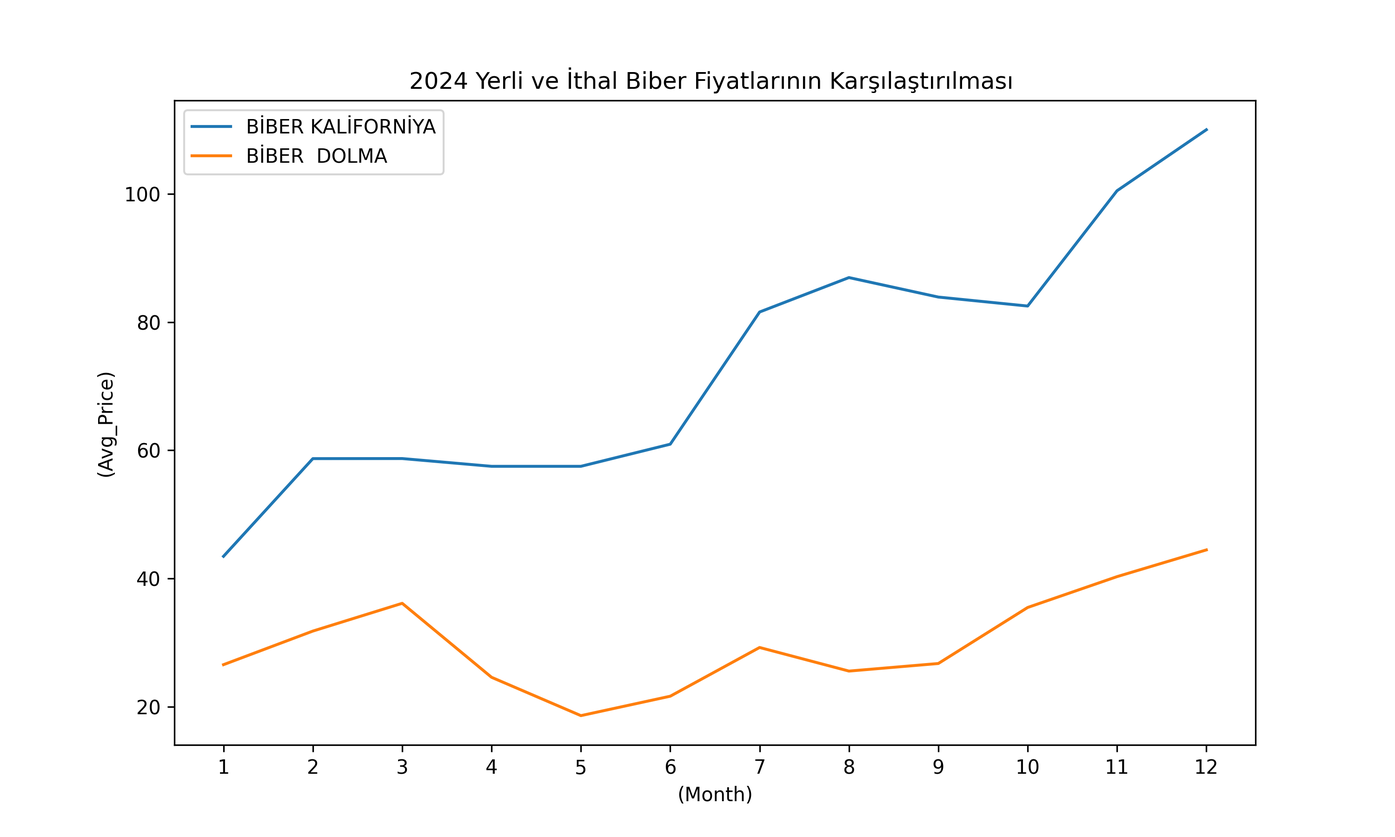
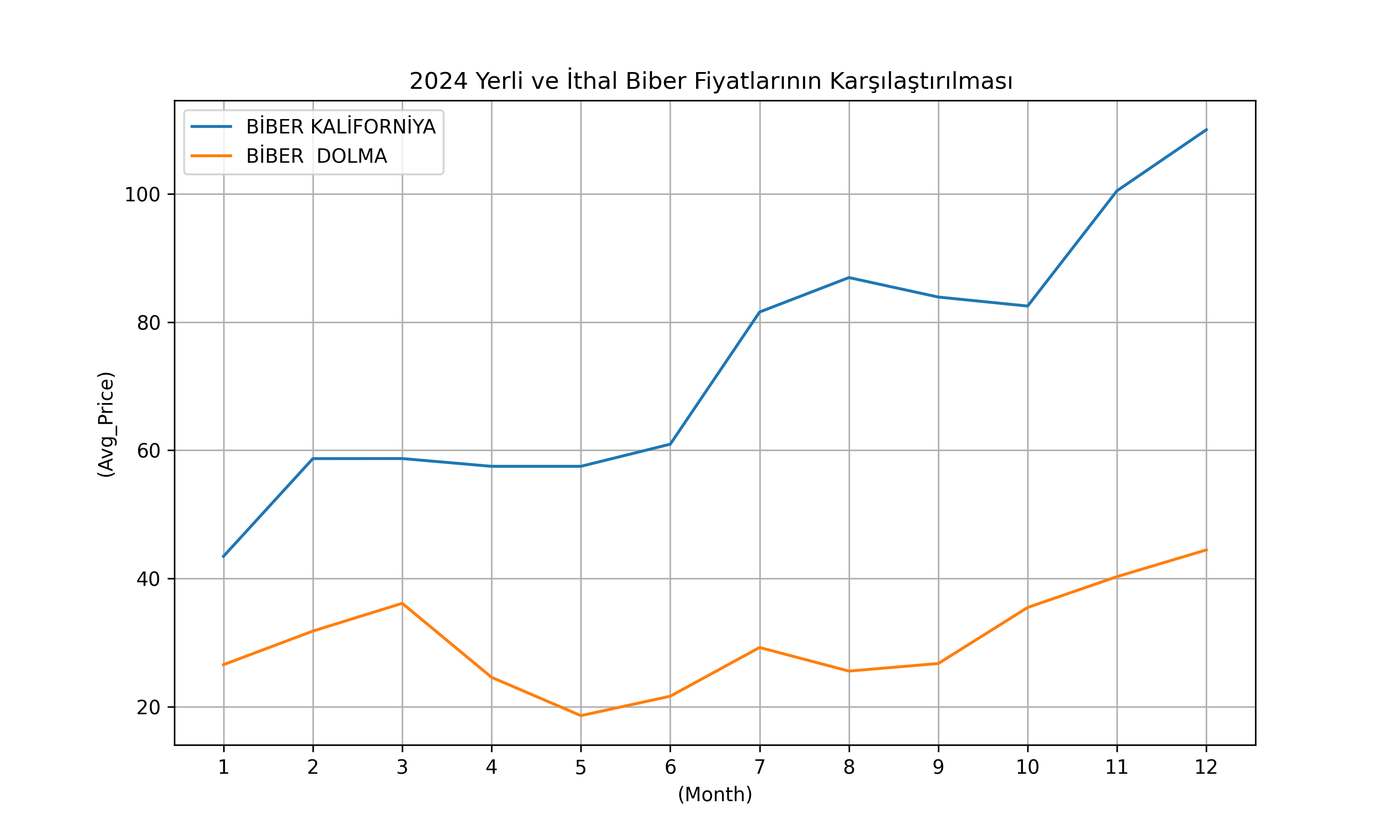
update

diff --git a/scripts/2024_yili_yerli_ve_ithal_kivi_fiyatlarinin_karsilastirilmasi_grafik.py b/scripts/2024_yili_yerli_ve_ithal_kivi_fiyatlarinin_karsilastirilmasi_grafik.py
@@ -29,7 +29,7 @@ for key, grp in data.groupby('type'):
     plt.plot(grp['ay'], grp['ortalama_fiyat'], marker='o', label=key)
 
 # Grafik ayarları
-plt.title('2024 Yerli Ve İthal Ortalama Kivi Fiyatları')
+plt.title('2024 Yerli Ve İthal Kivi Fiyatları')
 plt.xlabel('(Month)', fontsize=12)
 plt.ylabel('(Avg_Price)', fontsize=12)
 plt.xticks(range(1, 13))  

diff --git a/scripts/2024_yili_yerli_ve_ithal_sarimsak_fiyatlarinin_karsilastirilmasi_grafik.py b/scripts/2024_yili_yerli_ve_ithal_sarimsak_fiyatlarinin_karsilastirilmasi_grafik.py
@@ -39,7 +39,7 @@ plt.grid(True)
 plt.tight_layout()
 
 # Kaydetme yolunu belirleme
-output_path = "outputs/2024_yili_yerli_ve_ithal_sarimsak_fiyatlarinin_karsilastirilmasi.png"
+output_path = "outputs/2024_yili_yerli_ithal_sarimsak_fiyatlarinin_karsilastirilmasi.png"
 plt.savefig(output_path, format='png', dpi=300)  # Grafik kaydediliyor
 
 # Grafiği göster

diff --git a/scripts/2024_yili_yerli_ve_ithal_elma_fiyatlarinin_karsilastirilmasi_grafik.py b/scripts/2024_yili_yerli_ve_ithal_elma_fiyatlarinin_karsilastirilmasi_grafik.py
@@ -39,7 +39,7 @@ plt.xlabel('(Month)')
 plt.ylabel('(Avg_Price)')
 plt.xticks(range(1, 13))  
 plt.legend()
-
+plt.grid(True)
 # Kaydetme yolunu belirleme
 output_path = "outputs/2024_yerli_ithal_elma_fiyat_karsilastirma.png"
 plt.savefig(output_path, format='png', dpi=300)  

diff --git a/scripts/2024_yili_yerli_ve_ithal_biber_fiyatlarinin_karsilastirilmasi_grafik.py b/scripts/2024_yili_yerli_ve_ithal_biber_fiyatlarinin_karsilastirilmasi_grafik.py
@@ -39,7 +39,7 @@ plt.xlabel('(Month)')
 plt.ylabel('(Avg_Price)')
 plt.xticks(range(1, 13)) 
 plt.legend()
-
+plt.grid(True)
 
 # Kaydetme yolunu belirleme
 output_path = "outputs/2024_yerli_ithal_biber_fiyat_karsilastirma.png"

diff --git a/readme2.md b/readme2.md
@@ -515,38 +515,46 @@ Fiyat dalgalanmalarının düşük olmasının başlıca sebepleri arasında bu 
 
 
 
-
-
-
-
-
-
-
-
-
-
--------------------------------------------------------------------------------------------------------------------------------------------
+------------------------------------------------------------------------------------------------------------------
 
 ![2024_yili_en_yuksek_fiyatli_urun_ve_fiyat_degisimi.png](outputs/2024_yili_en_yuksek_fiyatli_urun_ve_fiyat_degisimi.png)
+2024 yılı içerisinde en yüksek fiyata sahip olan Can eriği ürününün fiyat değişimini gösteren grafiği incelediğimizde, yılın ilk aylarında özellikle Nisan ayı başında fiyatların en yüksek seviyede olduğunu görmekteyiz. Bu dönemde maksimum fiyat 600 TL seviyelerinde seyrederken, minimum fiyat 250 TL civarında gerçekleşmiştir. Nisan ayının ortalarına doğru fiyatlarda sert bir düşüş yaşanmış, maksimum fiyat önce 300 TL seviyelerine, ardından kademeli olarak 250 TL'ye kadar gerilemiştir. Mayıs ayına gelindiğinde düşüş trendi devam etmiş, maksimum fiyat 100 TL'nin altına inerken, minimum fiyat da 50 TL seviyelerine kadar düşmüştür.Haziran ve Temmuz aylarında fiyatlar daha stabil bir seyir izlemiş, maksimum fiyat 50-60 TL bandında, minimum fiyat ise 30-40 TL aralığında hareket etmiştir. Bu dönemde fiyatlar sezonun en düşük seviyelerine ulaşmış ve istikrar kazanmıştır. Ağustos ayına doğru fiyatlarda hafif bir yükseliş trendi başlamış, maksimum fiyat 150 TL'ye kadar çıkmış, ancak ardından tekrar 100 TL seviyelerine gerilemiştir. Minimum fiyat da benzer bir hareketle 60 TL civarına yükselmiştir. Bu hareket, minimum ve maksimum fiyat arasındaki farkın azalmasıyla birlikte fiyat dalgalanmalarının azaldığını göstermektedir.Bu fiyat hareketleri, can eriğinin mevsimsel özelliklerini net bir şekilde yansıtmakta olup, sezon başında oldukça yüksek olan fiyatların, ürün bollaştıkça önemli ölçüde gerilediğini ve sezon ortasında en düşük seviyeye ulaştıktan sonra sezon sonunda nispeten dengelendiğini göstermektedir.  Özellikle Nisan başında görülen 600 TL seviyesindeki fiyatların, Nisan ortasında 300 TL'ye ve Mayıs'ta 100 TL'nin altına düşmesi, sezon başındaki sert dalgalanmayı ortaya koymaktadır. Haziran ve Temmuz aylarında fiyatlar düşük seviyelerde sabit kalırken, Ağustos ayında görülen kısmi yükseliş ise fiyatlarda yeniden bir toparlanma sinyali vermiştir.
 
-
- 2024 yılı içerisinde en yüksek fiyata sahip olan ürünün Can erğinin fiyat değişimini görmekteyiz.
-Yılın başında, özellikle Mart ve Nisan aylarında ERİK_CAN’ın fiyatlarının oldukça yüksek olduğu görülmektedir. Bu dönemde maksimum fiyat yaklaşık 600 TL seviyelerinde iken, minimum fiyat da 250 TL civarında seyretmektedir. Bu olağanüstü yüksek fiyatlar, erik meyvesinin sezon dışı olması ve erken hasat edilen ürünlerin piyasada az bulunması nedeniyle ortaya çıkmış olabilir.Nisan ayının sonlarına doğru fiyatlarda belirgin bir düşüş yaşanmaktadır. Öncelikle maksimum fiyat 600 TL’den 500 TL seviyelerine inmiş, ardından kademeli olarak 300 TL seviyelerine kadar gerilemiştir. Aynı şekilde minimum fiyat da benzer bir seyir izleyerek önce 200 TL’ye, ardından 100 TL seviyelerine kadar düşmüştür. Mayıs ayının ortalarına doğru fiyatların tekrar küçük dalgalanmalar yaşadığı görülmektedir, ancak genel eğilim azalmaya devam etmektedir.Mayıs ayının sonlarından itibaren fiyatların en düşük seviyelerine ulaştığı ve stabil bir hale geldiği dikkat çekmektedir. Bu dönemde maksimum fiyat 50 TL civarına kadar düşerken, minimum fiyat ise 20-30 TL seviyelerine kadar gerilemiştir. Bu noktada ürünün piyasada daha bol bulunduğu ve talebin dengelenmesiyle fiyatların oturduğu söylenebilir.Haziran ve Temmuz aylarında fiyatlar yatay bir seyir izlerken, Temmuz ayının sonlarına doğru tekrar bir artış eğilimi başlamıştır. Maksimum fiyat 50 TL seviyesinden kademeli olarak 100 TL civarına yükselmiştir. Minimum fiyat da benzer bir şekilde hareket ederek 30 TL’den 60 TL seviyelerine çıkmıştır. Bu fiyat artışı, muhtemelen mevsimin sonuna doğru ürün arzının azalması ve talebin tekrar artmasıyla ilişkilidir.Ağustos ayına gelindiğinde fiyatlarda bir miktar dalgalanma gözlenmiş, ancak genel olarak maksimum fiyatın 100 TL seviyelerinde sabit kaldığı görülmektedir. Minimum fiyat da 50 TL civarında sabitlenmiş ve yılın geri kalanında büyük bir değişim göstermemiştir.
-
-Genel olarak değerlendirdiğimizde, ERİK_CAN fiyatlarının yıl içinde oldukça dramatik değişimler yaşadığı söylenebilir. Yılın başında aşırı yüksek seviyelerde olan fiyatlar, Nisan ve Mayıs aylarında hızla düşüşe geçmiş, yaz aylarında ise dengelenmiştir. Bu durum, meyvenin sezonluk bir ürün olmasından kaynaklanmaktadır. İlkbahar aylarında erken çıkan ürünlerin fiyatları oldukça yüksek olurken, yaz mevsimiyle birlikte arzın artması fiyatları aşağı çekmiştir. Ancak sezon sonuna yaklaşıldığında tekrar fiyat artışları gözlenmiştir. Fiyatların yılın başından itibaren ciddi bir düşüş gösterdiği için negatif trend baskın durumdadır.Ancak yılın ikinci yarısında hafif bir pozitif hareketlenme vardır.Zaman serisi analizi açısından bakıldığında, fiyatların mevsimsel bir trend izlediği görülmektedir.Yılın ilk aylarında yüksek fiyat dalgalanmaları yaşanırken, yılın ortalarına doğru fiyatlar stabilize olmuş ve sonbahara doğru tekrar yükseliş eğilimi göstermiştir.
+Genel olarak değerlendirdiğimizde, ERİK_CAN fiyatlarının yıl içinde oldukça dramatik değişimler yaşadığı söylenebilir. Yılın başında aşırı yüksek seviyelerde olan fiyatlar, Nisan ve Mayıs aylarında hızla düşüşe geçmiş, yaz aylarında ise dengelenmiştir. Bu durum, meyvenin sezonluk bir ürün olmasından kaynaklanmaktadır. İlkbahar aylarında erken çıkan ürünlerin fiyatları oldukça yüksek olurken, yaz mevsimiyle birlikte arzın artması fiyatları aşağı çekmiştir.Fiyatların yılın başından itibaren ciddi bir düşüş gösterdiği için negatif trend baskın durumdadır.Ancak yılın ikinci yarısında hafif bir pozitif hareketlenme vardır.Zaman serisi analizi açısından bakıldığında, fiyatların mevsimsel bir trend izlediği görülmektedir.Yılın ilk aylarında yüksek fiyat dalgalanmaları yaşanırken, yılın ortalarına doğru fiyatlar stabil hale gelmiş ve sonbahara doğru tekrar yükseliş eğilimi göstermiştir.
 
 -----------------------------------------------------------------------
 ![2024_ilkbahar_en_yuksek_fiyat_degisimi_top5.png](outputs/2024_ilkbahar_en_yuksek_fiyat_degisimi_top5.png)
 
- 2024 yılı ilkbahar mevsiminde fiyat değişimi en yüksek olan can eriği,badem-çağla,kiraz,malta ve nektarin ürünleri karşımıza çıkıyor. İlk sırada can eriği yer alıyor ve bu ürünün fiyat değişimi 390 olarak kaydedilmiştir. Minimum fiyatı 35 TL ve Maksimum fiyatı 425 TL ye kadar çıkmaktadır. İkinci sırada yer alan Badem-Çağla, 322.5 fiyat değişimi ile dikkat çekmektedir; maksimum fiyatı 375 TL, minimum fiyatı ise 52.5 TL'dir.Üçüncü sıradaki Kiraz ürününün fiyat değişimi 195 TL olarak görülmüştür. Maksimum fiyatı 270 TL, minimum fiyatı ise 75 TL’dir. Dördüncü sırada yer alan "Malta" ise 92.5 TL fiyat değişimi ile grafiğe girmektedir; maksimum fiyatı 122.5 TL, minimum fiyatı ise 30 TL’dir. Malta ürünü, diğerlerine kıyasla daha düşük bir fiyat değişim gösterse de, yine de önemli bir fiyat dalgalanması yaşandığı söylenebilir. Son olarak, "Nektarin Kırmızı", 91 TL ile aralarında en düşük fiyat değişimine sahip üründür; maksimum fiyatı 112.5, minimum fiyatı ise 21.5’tir. 
+ 2024 yılı ilkbahar mevsimindeki en yüksek fiyat değişimine sahip 5 ürünün grafiğini incelediğimizde can eriği Fiyatı 35 TL ile 425 TL arasında değişerek tam 390 TL'lik bir fiyat artışı göstermiş. İkinci sırada yer alan Badem-Çağla'nın fiyatı 52.5 TL'den 375 TL'ye yükselerek 322.5 TL'lik bir artış kaydetmiş.Üçüncü sırada bulunan Kiraz'ın fiyatı 75 TL'den 270 TL'ye çıkarak 195 TL'lik artış göstermiş. Malta'nın fiyatı 30 TL'den 122.5 TL'ye yükselerek 92.5 TL'lik, Nektarin Kırmızı'nın fiyatı ise 21.5 TL'den 112.5 TL'ye çıkarak 91 TL'lik bir artış göstermiş.Dİkkat çekici kısımlar ise can eriği ve badem-çağla'nın fiyat değişimleri diğer ürünlere göre çok daha yüksek,son üç ürünün (Kiraz, Malta, Nektarin Kırmızı) fiyat değişimleri birbirine daha yakın seyrediyor.En düşük başlangıç fiyatı Nektarin Kırmızı'da,en yüksek zirve fiyatı ve en yüksek fiyat değişimi can eriğinde bulunuyor.Can eriğinin fiyat artışı en düşük artışa sahip olan kırmızı nektarinin yaklaşık 4.3 katı olarak görülüyor ve ilk iki ürünün (Erik Can ve Badem-Çağla) fiyat artışları, diğer üç ürünün toplam artışından daha fazla olduğu,tüm ürünlerin minimum ve maksimum fiyatları arasında en az 3 kat fark bulunduğu dikkat çekiyor.
+ ----------------------------------------------------------------------------------------------------------------
 
-İstatistiksel olarak, fiyat değişimlerinin dağılımına bakıldığında, en yüksek volatiliteyi gösteren ürün can eriğidir. 
-
-
-
-Genel olarak, grafik, tarım ürünlerinin piyasa dinamiklerine olan duyarlılığını ve fiyat değişimlerinin mevsimsel etkilerle şekillendiğini ortaya koymaktadır. Ürünlerin piyasa koşullarına ve tüketici taleplerine göre dalgalanan fiyatları, üreticiler ve tüketiciler için önemli stratejik kararlar almayı gerektirebilir. Yüksek fiyat değişimlerine sahip ürünler, yatırımcılar ve üreticiler için daha fazla risk taşıyor olabilir; bu nedenle risk yönetimi stratejileri, özellikle "Erik Can" ve "Badem-Çığla" gibi ürünlerde önemli bir rol oynayabilir. Bu çıkarımlar, tarım piyasalarının karmaşıklığını ve dinamiklerini anlamak için kritik bir temel sunmaktadır.
+![2024_kis_en_yuksek_fiyat_degisimi_top5.png](outputs/2024_kis_en_yuksek_fiyat_degisimi_top5.png)
 
 
+2024 yılı kış mevsimindeki en yüksek fiyat değişimine sahip 5 ürünün grafiğini incelediğimizde çileğin fiyatı 60 TL ile 325 TL arasında değişerek tam 265 TL'lik bir fiyat artışı göstermiş. İkinci sırada yer alan Sarımsak Kuru'nun fiyatı 47.5 TL'den 135 TL'ye yükselerek 87.5 TL'lik bir artış kaydetmiş. Üçüncü sırada bulunan Mantar'ın fiyatı 27.5 TL'den 100 TL'ye çıkarak 72.5 TL'lik artış göstermiş. Biber Kaliforniya'nın fiyatı 40 TL'den 110 TL'ye yükselerek 70 TL'lik, Zencefil'in fiyatı ise 120 TL'den 180 TL'ye çıkarak 60 TL'lik bir artış göstermiş.
+Dikkat çekici kısımlar ise çileğin fiyat değişimi diğer ürünlere göre çok daha yüksek, son dört ürünün (Sarımsak Kuru, Mantar, Biber Kaliforniya, Zencefil) fiyat değişimleri birbirine daha yakın seyrediyor.Mantar en düşük başlangıç fiyatına sahip (27.5 TL) ve fiyatı yaklaşık 3.6 kat artmış. En düşük başlangıç fiyatı Mantar'da (27.5 TL), en yüksek başlangıç fiyatı ise Zencefil'de (120 TL) bulunuyor.Zencefil en yüksek başlangıç fiyatına sahip olmasına rağmen (120 TL) en düşük artış oranını göstermiş, En yüksek zirve fiyatı ve en yüksek fiyat değişimi çilekte görülüyor.Çileğin tek başına gösterdiği fiyat artışı, diğer dört ürünün toplam artışına (290 TL) neredeyse denk geliyor. Ayrıca çilekte minimum ve maksimum fiyat arasında yaklaşık 5.4 kat fark bulunuyor. Çileğin kış mevsiminde bu kadar yüksek fiyat artışı göstermesi, mevsim dışı bir ürün olmasıyla ilişkilendirilebilir ayrıca zencefil gibi ithal bir ürünün fiyat değişiminin daha stabil olması, döviz kurlarının bu dönemde görece stabil seyretmiş olabileceğini düşündürüyor.
+----------------------------------------------------------------------------------------------------------------
+![2024_sonbahar_en_yuksek_fiyat_degisimi_top5.png](outputs/2024_sonbahar_en_yuksek_fiyat_degisimi_top5.png)
+
+
+2024 yılı sonbahar mevsimindeki en yüksek fiyat değişimine sahip 5 ürünün grafiğini incelediğimizde çileğin fiyatı 75 TL ile 275 TL arasında değişerek tam 200 TL'lik bir fiyat artışı göstermiş. İkinci sırada yer alan Zencefil'in fiyatı 115 TL'den 165 TL'ye yükselerek 50 TL'lik bir artış kaydetmiş. Üçüncü sırada bulunan Domates (Diğer)'in fiyatı 17.5 TL'den 57.5 TL'ye çıkarak 40 TL'lik artış göstermiş. Sarımsak Kuru'nun fiyatı 90 TL'den 130 TL'ye yükselerek 40 TL'lik, Biber Kırmızı'nın fiyatı ise 25 TL'den 65 TL'ye çıkarak 40 TL'lik bir artış göstermiş.
+Dikkat çekici kısımlar ise çileğin fiyat değişimi diğer ürünlere göre çok daha yüksek, son üç ürünün (Domates Diğer, Sarımsak Kuru, Biber Kırmızı) fiyat değişimleri aynı (40 TL) seyrediyor. En düşük başlangıç fiyatı Domates Diğer'de (17.5 TL), en yüksek başlangıç fiyatı ise Zencefil'de (115 TL) bulunuyor. En yüksek zirve fiyatı ve en yüksek fiyat değişimi çilekte görülüyor. Çileğin fiyat artışı (200 TL), diğer dört ürünün toplam artışından (170 TL) daha fazla. Ayrıca çilekte minimum ve maksimum fiyat arasında yaklaşık 3.7 kat fark bulunması dikkat çekici
+
+Ortalama fiyat değişimi 74 TL olarak hesaplanıyor.Son üç ürünün aynı fiyat artışını göstermesi (40 TL) pazar dinamiklerinin benzer olduğunu düşündürüyor.Çileğin fiyat artışı (200 TL),  en az artış gösteren ürünlerin fiyat artışının (40 TL) tam 5 katına eşittir.Zencefil yine yüksek başlangıç fiyatına sahip olmasına rağmen görece düşük bir artış göstermiş ve Zencefil gibi ithal bir ürünün fiyat değişiminin diğer ürünlere göre daha kontrollü olması, döviz kurlarındaki değişimin sınırlı etkisini gösteriyor.Çileğin sonbaharda da yüksek fiyat artışı göstermesi, mevsim geçiş dönemindeki arz-talep dengesizliğini yansıtırken,Domates ve Biber gibi sera ürünlerinin benzer fiyat artışları göstermesi, üretim maliyetlerinin benzer şekilde etkilendiğini gösteriyor
+------------------------------------------------------------------------------------------------------------------
+
+![2024_yaz_en_yuksek_fiyat_degisimi_top5.png](outputs/2024_yaz_en_yuksek_fiyat_degisimi_top5.png)
+
+2024 yılı yaz mevsimindeki en yüksek fiyat değişimine sahip 5 ürünün grafiğini incelediğimizde Fasulye Ayşe'nin fiyatı 26.5 TL ile 100 TL arasında değişerek tam 73.5 TL'lik bir fiyat artış göstermiş. İkinci sırada yer alan Fasulye Çalı'nın fiyatı 24.5 TL'den 97.5 TL'ye yükselerek 73 TL'lik bir artış kaydetmiş. Üçüncü sırada bulunan Bamya'nın fiyatı 77.5 TL'den 150 TL'ye çıkarak 72.5 TL'lik artış göstermiş. Erik Can'ın fiyatı 35 TL'den 105 TL'ye yükselerek 70 TL'lik, Kiraz'ın fiyatı ise 52.5 TL'den 117.5 TL'ye çıkarak 65 TL'lik bir artış göstermiş.Dikkat çekici kısımlar ise tüm ürünlerin fiyat değişimleri birbirine oldukça yakın seyrediyor,En düşük başlangıç fiyatı Fasulye Çalı'da ve en yüksek zirve fiyatı Bamya'da görülüyor.İlk üç ürünün (Fasulye Ayşe, Fasulye Çalı ve Bamya) fiyat artışları neredeyse aynı (73.5, 73 ve 72.5 TL)Fasulye türlerinin başlangıç fiyatları düşük olduğu için yüzdesel artışları (%277 ve %298) en yüksek olduğu görülüyor ve fasulye türlerinin benzer fiyat artışları göstermesi, üretim ve hasat koşullarının benzer olduğunu gösteriyor. Bamya'nın yüksek başlangıç fiyatına rağmen önemli bir artış göstermesi, yaz mevsiminde bile arz-talep dengesizliğini yansıtıyor.Can eriği ve Kiraz gibi meyvelerin fiyat artışlarının görece daha düşük olması, yaz mevsiminin bu ürünler için ana hasat dönemi olmasıyla açıklanabilir.Can eriği ilkbahar mevsiminde en yüksek fiyat artışına sahipken, yaz mevsiminde daha makul bir artış gösteriyor.Tüm ürünlerin fiyat değişimlerinin birbirine yakın olması, yaz mevsiminde daha dengeli bir pazar yapısı olduğunu gösteriyor.Önceki mevsimlerde görülen aşırı fiyat farklılıkları yaz mevsiminde görülmüyor
+-----------------------------------------------------------------------------------------------------------------
+![2024_sezonluk_meyve_fiyatlari.png](outputs/2024_sezonluk_meyve_fiyatlari.png)
+
+
+
+
+
+--------------------------------------------------------------------------------------------------------------
+![2024_sezonluk_sebze_fiyatlari.png](outputs/2024_sezonluk_sebze_fiyatlari.png)
 
 
 
@@ -554,8 +562,46 @@ Genel olarak, grafik, tarım ürünlerinin piyasa dinamiklerine olan duyarlılı
 
 
 
+----------------------------------------------------------------------------------------------------------------
+![2024_meyve_kategorisi_en_yuksek_fiyat_can_erigi_degisimi.png](outputs/2024_meyve_kategorisi_en_yuksek_fiyat_can_erigi_degisimi.png)
+
+2024 yılı meyve kategorisindeki en yüksek fiyata sahip Can Eriği'nin fiyat değişimlerini gösteren grafiği incelediğimizde, özellikle Mart-Nisan aylarında fiyatların zirvede olduğunu görmekteyiz. Bu dönemde maksimum fiyat 600 TL, minimum fiyat 250 TL ve ortalama fiyat 425 TL seviyelerinde seyretmiştir. Mayıs ayına kadar fiyatlarda keskin bir düşüş yaşanmış, maksimum fiyat 100 TL'ye, minimum fiyat 50 TL'ye ve ortalama fiyat 75 TL'ye kadar gerilemiştir ve haziran ayındada az da olsa düşüş devam etmiştir. Yılın ilk aylarında oldukça yüksek seyreden fiyatlar, Mayıs ayından sonra dengelenmeye başlamış ve Haziran-Ağustos döneminde daha stabil bir seyir izlemiştir. Maksimum ve minimum fiyat arasındaki makas da zamanla daralmıştır. Bu fiyat hareketlerinin temel nedenleri arasında sezon başında arzın kısıtlı olması, mevsim dışı üretimin maliyetli olması, Mayıs ayından sonra ürünün bollaşmasıyla fiyatların düşmesi ve yaz aylarında arz-talep dengesinin oturması sayılabilir. Tüm bu veriler, Can Eriği'nin özellikle sezon başında çok yüksek fiyatlarla satıldığını, ancak mevsimi geldiğinde fiyatların makul seviyelere indiğini göstermektedir. Fiyat hareketlerinin tamamen mevsimsel faktörlerle ilişkili olduğu açıkça görülmektedir.
+
+-----------------------------------------------------------------------------------------------------------------
+
+![2024_yili_sebze_kategorisindeki_en_yuksek_fiyat_mantar_istiridye_fiyat_degisimi.png](outputs/2024_yili_sebze_kategorisindeki_en_yuksek_fiyat_mantar_istiridye_fiyat_degisimi.png)
+
+2024 yılı sebze kategorisinde en yüksek fiyata sahip Mantar (İstiridye) ürününün fiyat değişimlerini incelediğimizde, yılın ilk çeyreğinde Ocak ayında minimum fiyatın 15 TL, maksimum fiyatın 115 TL civarında başladığını ve Mart ayına kadar kademeli bir artış göstererek maksimum fiyatın 145 TL'ye ulaştığını, ortalama fiyatın ise 85-95 TL bandında seyrettiğini görmekteyiz. İlkbahar döneminde, özellikle Nisan ayında fiyatlar en yüksek seviyelerinden birini görmüş, Mayıs ayında hafif bir düşüş trendi başlamış ve minimum fiyat 55 TL civarında stabilize olmuştur. Yaz dönemine gelindiğinde, Haziran ayında fiyatlar yılın en düşük seviyelerinden birini göstermiş, ancak Temmuz ve Ağustos aylarında tekrar yükseliş trendine girerek maksimum fiyat 135-140 TL bandında hareket etmiştir. Sonbahar-Kış döneminde ise Eylül ayından itibaren belirgin bir yükseliş trendi başlamış, Aralık ayında maksimum fiyat 205 TL ile yılın en yüksek seviyesine ulaşırken, minimum fiyat 60 TL civarında sabit kalmış ve ortalama fiyat 130 TL'ye kadar yükselmiştir. Genel olarak değerlendirildiğinde, yıl boyunca minimum fiyatın 15-60 TL arasında, maksimum fiyatın ise 115-205 TL arasında dalgalandığı, en yüksek fiyat artışının yılın son çeyreğinde gerçekleştiği ve fiyatların genel olarak yükselen bir trend izlediği görülmektedir. Bu fiyat hareketlerinde mevsimsel etkilerin önemli rol oynadığı açıkça gözlemlenmektedir.
+-----------------------------------------------------------------------------------------------------------------
+
+![2024_yerli_ithal_biber_fiyat_karsilastirma.png](outputs/2024_yerli_ithal_biber_fiyat_karsilastirma.png)
+2024 yılı yerli ve ithal biber fiyatlarını gösteren grafiği incelediğimizde, Kaliforniya biberi (ithal) ile dolma biber (yerli) arasında önemli fiyat farklılıkları göze çarpıyor. Kaliforniya biberi yıl boyunca 43-110 TL aralığında seyrederken, dolma biber çok daha uygun bir fiyat aralığında, 18-45 TL bandında değişim gösteriyor. Mevsimsel değişimlere baktığımızda, ilkbahar aylarında (3-4-5. aylar) dolma biber fiyatları 35 TL'den 18 TL'ye düşerken, Kaliforniya biberi 60 TL civarında sabit kalıyor. Yaz döneminde (6-7-8. aylar) ise durum değişiyor; Kaliforniya biberi keskin bir yükselişle 60 TL'den 85 TL'ye çıkarken, dolma biber fiyatları da hafif bir artışla 20 TL'den 30 TL'ye yükseliyor,daha sonra da fiyatı 25 TL'ye geriliyor. Sonbahar aylarına (9-10-11. aylar) gelindiğinde, Kaliforniya biberinde önce bir düşüş, ardından tekrar yükseliş gözlenirken, dolma biber fiyatları kademeli olarak artış gösteriyor. Kış aylarında ise her iki ürün de en yüksek fiyatlarına ulaşıyor; Kaliforniya biberi 110 TL civarına çıkarken, dolma biber 45 TL seviyelerine yükseliyor. İki ürün arasındaki fiyat farkı özellikle yılın son aylarında en yüksek seviyeye ulaşıyor. Yerli dolma biberin fiyatları mevsimsellikten daha fazla etkileniyor ve tüketiciler için en uygun alım dönemi ilkbahar ayları olarak öne çıkıyor. Her iki ürün için de kış ayları en yüksek fiyatların görüldüğü dönem olarak dikkat çekiyor. Bu veriler ışığında, özellikle ekonomik alışveriş yapmak isteyen tüketiciler için yerli dolma biberin ilkbahar ve yaz başlangıcında daha uygun bir seçenek olduğunu söyleyebiliriz.
+------------------------------------------------------------------------------------------------------------
+
+![2024_yerli_ithal_elma_fiyat_karsilastirma.png](outputs/2024_yerli_ithal_elma_fiyat_karsilastirma.png)
+
+2024 yılı yerli ve ithal elma fiyatlarını gösteren grafiği incelediğimizde, Amasya elması (yerli) ve Starking elması (ithal) arasındaki fiyat değişimlerini net bir şekilde görebiliyoruz. Yılın başında her iki elma çeşidi de birbirine yakın fiyatlarla başlıyor; Amasya elması 22 TL, Starking elması 23 TL civarında seyrediyor. İlkbahar aylarına gelindiğinde (3-4-5. aylar) Amasya elması 25-27 TL bandında dalgalanırken, Starking elması 22-24 TL aralığında daha düşük bir seyir izliyor. Yaz ortasına doğru (6-7. aylar) ilginç bir kesişme noktası görülüyor ve her iki elma çeşidi de 29 TL civarında buluşuyor. Ancak yaz sonundan itibaren fiyat ayrışması belirginleşiyor; Amasya elmasının fiyatı sürekli yükseliş trendine girerek sonbaharda (9-10-11. aylar) 34 TL'den 42 TL'ye kadar çıkıyor. Starking elması ise daha stabil bir seyir izleyerek 22-31 TL bandında kalıyor. Yılın son ayında Amasya elması 40 TL civarında seyrederken, Starking elması 30 TL seviyesinde kalıyor. Bu veriler ışığında, yerli Amasya elmasının özellikle sonbahar ve kış aylarında daha yüksek fiyatlara ulaştığını, ithal Starking elmasının ise yıl boyunca daha istikrarlı ve genellikle daha uygun fiyatlarla satıldığını söyleyebiliriz. Tüketiciler için en ekonomik alım dönemi her iki elma çeşidi için de yılın ilk yarısı olarak öne çıkıyor.
+---------------------------------------------------------------------------------------------------------------
+
+![2024_yerli_ithal_kivi_fiyat_karsilastirma.png](outputs/2024_yerli_ithal_kivi_fiyat_karsilastirma.png)
+
+2024 yılı yerli ve ithal kivi fiyatlarını gösteren grafiği incelediğimizde, oldukça dikkat çekici fiyat farklılıkları ve değişimleri gözlemliyoruz. Yılın başında yerli kivi 32 TL civarında seyrederken, ithal kivi 45 TL seviyesinden başlıyor. İlkbahar aylarına doğru (3-4-5. aylar) her iki üründe de kademeli bir artış görülüyor; yerli kivi 45-50 TL bandında ilerlerken, ithal kivi 50-65 TL aralığında seyrediyor. Yaz aylarına gelindiğinde (6-7-8. aylar) fiyatlarda dramatik bir yükseliş dikkat çekiyor; özellikle ithal kivinin fiyatı keskin bir artışla 70 TL'den 120 TL'ye kadar yükseliyor. Aynı dönemde yerli kivi de artış gösteriyor ancak bu artış daha makul seviyelerde kalıyor ve 50 TL'den 85 TL'ye çıkıyor. Sonbahar ve kış aylarına doğru (9-12. aylar) ilginç bir trend değişimi yaşanıyor. Ağustos ayından sonra ithal kivi bulunmazken, yerli kivi fiyatları 85 TL'den kademeli olarak düşüşe geçerek yıl sonunda 70 TL seviyesine geriliyor. Bu veriler ışığında, tüketiciler için en ekonomik alım döneminin yılın ilk ayları olduğunu, özellikle yaz aylarında her iki kivi çeşidinin de önemli fiyat artışları gösterdiğini söyleyebiliriz. Yerli kivinin genel olarak daha ekonomik bir seçenek olduğu ve fiyat istikrarının ithal kiviye göre daha dengeli seyrettiği açıkça görülüyor.
+
+--------------------------------------------------------------------------------------------------------------
+![2024_yerli_ithal_muz_fiyat_karsilastirma.png](outputs/2024_yerli_ithal_muz_fiyat_karsilastirma.png)
+
+
+2024 yılı yerli ve ithal muz fiyatlarını gösteren grafiği detaylı olarak incelediğimizde, oldukça ilginç fiyat hareketleri ve mevsimsel değişimler göze çarpıyor. Yılın başında yerli muz 28 TL, ithal muz ise 45 TL seviyesinden başlıyor. Şubat ayına gelindiğinde her iki üründe de keskin bir yükseliş yaşanıyor; yerli muz 47 TL'ye, ithal muz ise 61 TL'ye çıkıyor. Bu ani yükselişten sonra ilkbahar aylarında (3-4-5. aylar) farklı trendler gözlemleniyor; yerli muz fiyatları kademeli olarak düşüş göstererek 45 TL'den 37 TL'ye gerilerken, ithal muz 59-61 TL bandında dalgalanarak görece stabil seyrediyor.
+
+Yaz aylarına gelindiğinde (6-7-8. aylar) her iki üründe de yükseliş trendi başlıyor. İthal muz fiyatları 61 TL'den başlayarak kademeli bir artışla 64 TL seviyesine ulaşıyor ve bu seviyede bir süre sabit kalıyor. Yerli muz ise 38 TL'den başlayarak yükselişe geçiyor ve 47 TL seviyelerine kadar çıkıyor.Sonbahar döneminde (9-10-11. aylar) fiyat hareketleri daha da ilginçleşiyor. İthal muz fiyatları hafif bir düşüş trendine girerken, yerli muz fiyatları dalgalı bir seyir izliyor; önce 45 TL'ye düşüyor, sonra tekrar 48 TL'ye yükseliyor ve ardından 43 TL'ye geriliyor.Yılın son ayında her iki ürün de düşüş gösteriyor; yerli muz 40 TL, ithal muz ise 60 TL seviyesine iniyor. Yerli muz için en ekonomik dönemler, yılın başı ve mayıs ayı civarı olarak öne çıkmaktadır. Ayrıca, yerli muz fiyatları mevsimsel değişimlerden daha fazla etkilenmektedir.Tüketiciler için, yerli muzun her zaman daha ekonomik bir seçenek olduğu ve özellikle ilkbahar aylarında fiyat avantajının en yüksek seviyeye ulaştığı açıkça görülüyor.
+
+----------------------------------------------------------------------------------------------------------
+
+
+[2024_yili_yerli_ithal_sarimsak_fiyatlarinin_karsilastirilmasi.png](outputs/2024_yili_yerli_ithal_sarimsak_fiyatlarinin_karsilastirilmasi.png)
 
 
 
-
+2024 yılı yerli ve ithal sarımsak fiyatlarını grafiği incelediğimizde, Yılın başında yerli sarımsak 65 TL, ithal sarımsak ise 82 TL seviyesinden başlıyor. Şubat ayında her iki üründe de keskin bir yükseliş yaşanıyor; yerli sarımsak 85 TL'ye, ithal sarımsak ise 108 TL'ye çıkıyor.İlkbahar aylarında (3-4-5. aylar) farklı trendler gözlemleniyor. İthal sarımsak fiyatı hızlı bir yükselişle 126 TL seviyesine çıkıyor ve bu seviyede uzun süre sabit kalıyor. Yerli sarımsak ise 97-99 TL bandında dalgalanarak daha sonra mayıs ayında 87 TL 'lere geriliyor. Yaz aylarına gelindiğinde (6-7-8. aylar) ithal sarımsak fiyatları çok hafif bir düşüş eğilimine giriyor. Yerli sarımsak kademeli bir yükselişle 100 TL seviyesine ulaşıyor.
+Sonbahar ve kış döneminde (9-10-11-12. aylar) çok ilginç bir tablo ortaya çıkıyor. İthal sarımsak bu dönemlerde bulunmuyor. (muhtemelen sezon dışı veya stok yetersizliği) Yerli sarımsak fiyatları ise dramatik bir yükseliş gösteriyor. Eylül'de 94 TL, Ekim'de 103 TL, Kasım'da 112 TL, Aralık'ta 133 TL'ye kadar yükseliyor.İthal ve yerli sarımsak arasında ortalama 30-40 TL'lik bir fiyat farkı bulunuyor. Yerli sarımsak fiyatları özellikle kış aylarında ciddi artış gösteriyor. Yerli sarımsak için mayıs-haziran ayları en uygun fiyatların görüldüğü dönem olak karşımıza çıkıyor. İlkbahar ve yaz başlangıcında yerli sarımsak almak daha ekonomik, kış aylarında fiyatlar çok yükseleceği için, uygun dönemde alıp uygun koşullarda saklamak avantajlı olabilir.İthal sarımsak genellikle yerli ürüne göre daha pahalı bir seçenek olarak öne çıkıyor.
 
